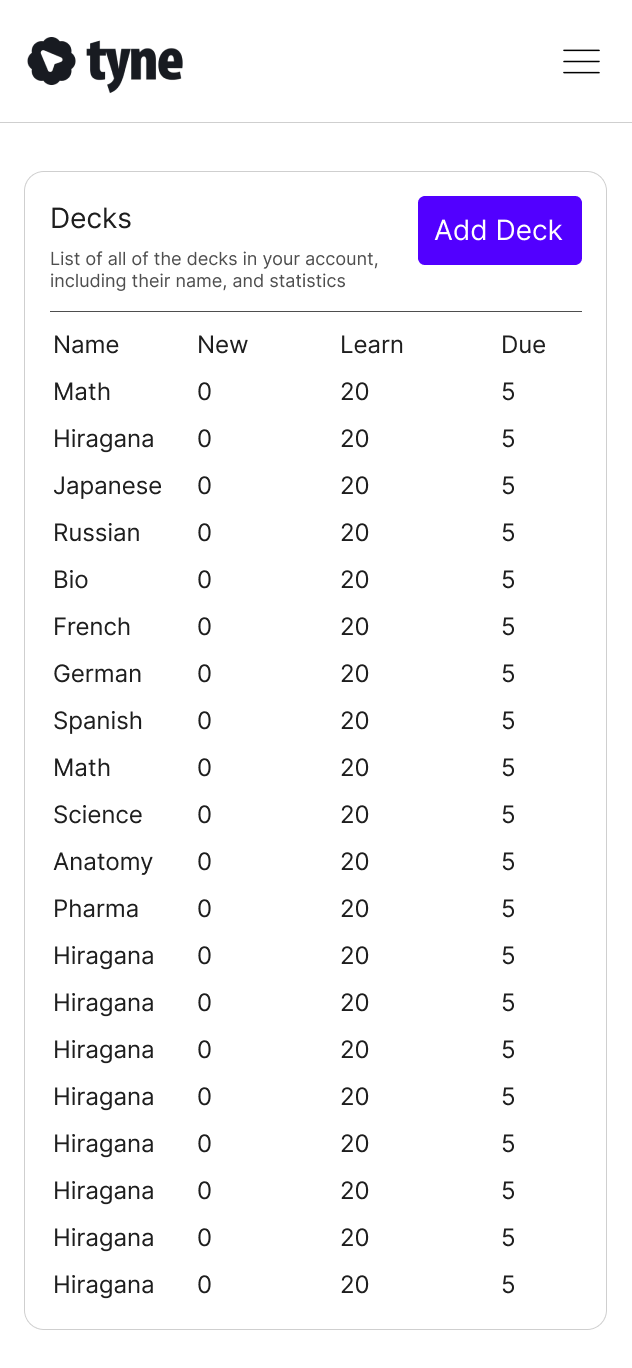
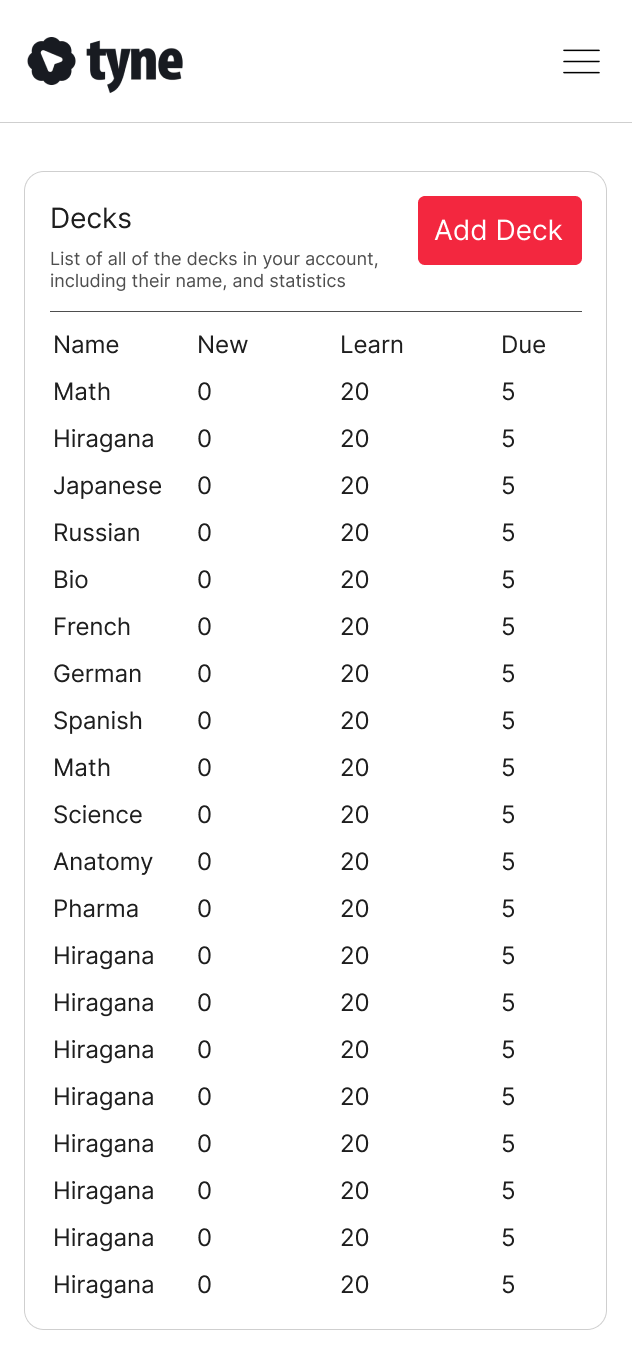
FEAT: new colors

Changed region(s): [[0.6614, 0.1228, 0.932, 0.2149]]

diff --git a/src/routes/register/+page.svelte b/src/routes/register/+page.svelte
@@ -24,7 +24,7 @@
 							type="email"
 							autocomplete="email"
 							required
-							class="block w-full rounded-md border-0 py-1.5 text-gray-900 shadow-sm ring-1 ring-inset ring-gray-300 placeholder:text-gray-400 focus:ring-2 focus:ring-inset focus:ring-indigo-600 sm:text-sm sm:leading-6"
+							class="block w-full rounded-md border-0 py-1.5 text-gray-900 shadow-sm ring-1 ring-inset ring-gray-300 placeholder:text-gray-400 focus:ring-2 focus:ring-inset focus:ring-rose-600 sm:text-sm sm:leading-6"
 						/>
 					</div>
 				</div>
@@ -40,7 +40,7 @@
 							type="password"
 							autocomplete="current-password"
 							required
-							class="block w-full rounded-md border-0 py-1.5 text-gray-900 shadow-sm ring-1 ring-inset ring-gray-300 placeholder:text-gray-400 focus:ring-2 focus:ring-inset focus:ring-indigo-600 sm:text-sm sm:leading-6"
+							class="block w-full rounded-md border-0 py-1.5 text-gray-900 shadow-sm ring-1 ring-inset ring-gray-300 placeholder:text-gray-400 focus:ring-2 focus:ring-inset focus:ring-rose-600 sm:text-sm sm:leading-6"
 						/>
 					</div>
 				</div>
@@ -51,7 +51,7 @@
 							id="remember-me"
 							name="remember-me"
 							type="checkbox"
-							class="h-4 w-4 rounded border-gray-300 text-indigo-600 focus:ring-indigo-600"
+							class="h-4 w-4 rounded border-gray-300 text-rose-600 focus:ring-rose-600"
 						/>
 						<label for="remember-me" class="ml-3 block text-sm leading-6 text-gray-900"
 							>Remember me</label
@@ -59,9 +59,8 @@
 					</div>
 
 					<div class="text-sm leading-6">
-						<a
-							href="/forgotten-password"
-							class="font-semibold text-indigo-600 hover:text-indigo-600">Forgot password?</a
+						<a href="/forgotten-password" class="font-semibold text-rose-600 hover:text-rose-600"
+							>Forgot password?</a
 						>
 					</div>
 				</div>
@@ -69,7 +68,7 @@
 				<div>
 					<button
 						type="submit"
-						class="flex w-full justify-center rounded-md bg-indigo-600 px-3 py-1.5 text-sm font-semibold leading-6 text-white shadow-sm hover:bg-indigo-600 focus-visible:outline focus-visible:outline-2 focus-visible:outline-offset-2 focus-visible:outline-indigo-600"
+						class="flex w-full justify-center rounded-md bg-rose-600 px-3 py-1.5 text-sm font-semibold leading-6 text-white shadow-sm hover:bg-rose-600 focus-visible:outline focus-visible:outline-2 focus-visible:outline-offset-2 focus-visible:outline-rose-600"
 						>Register</button
 					>
 				</div>
@@ -282,7 +281,7 @@
 
 		<p class="mt-10 text-center text-sm text-gray-500">
 			Not a member?
-			<a href="/waitlist" class="font-semibold leading-6 text-indigo-600 hover:text-indigo-600"
+			<a href="/waitlist" class="font-semibold leading-6 text-rose-600 hover:text-rose-600"
 				>Sign up!</a
 			>
 		</p>

diff --git a/src/routes/login/+page.svelte b/src/routes/login/+page.svelte
@@ -28,7 +28,7 @@
 							type="email"
 							autocomplete="email"
 							required
-							class="block w-full rounded-md border-0 py-1.5 text-gray-900 shadow-sm ring-1 ring-inset ring-gray-300 placeholder:text-gray-400 focus:ring-2 focus:ring-inset focus:ring-indigo-600 sm:text-sm sm:leading-6"
+							class="block w-full rounded-md border-0 py-1.5 text-gray-900 shadow-sm ring-1 ring-inset ring-gray-300 placeholder:text-gray-400 focus:ring-2 focus:ring-inset focus:ring-rose-600 sm:text-sm sm:leading-6"
 						/>
 					</div>
 				</div>
@@ -44,7 +44,7 @@
 							type="password"
 							autocomplete="current-password"
 							required
-							class="block w-full rounded-md border-0 py-1.5 text-gray-900 shadow-sm ring-1 ring-inset ring-gray-300 placeholder:text-gray-400 focus:ring-2 focus:ring-inset focus:ring-indigo-600 sm:text-sm sm:leading-6"
+							class="block w-full rounded-md border-0 py-1.5 text-gray-900 shadow-sm ring-1 ring-inset ring-gray-300 placeholder:text-gray-400 focus:ring-2 focus:ring-inset focus:ring-rose-600 sm:text-sm sm:leading-6"
 						/>
 					</div>
 				</div>
@@ -55,7 +55,7 @@
 							id="remember-me"
 							name="remember-me"
 							type="checkbox"
-							class="h-4 w-4 rounded border-gray-300 text-indigo-600 focus:ring-indigo-600"
+							class="h-4 w-4 rounded border-gray-300 text-rose-600 focus:ring-rose-600"
 						/>
 						<label for="remember-me" class="ml-3 block text-sm leading-6 text-gray-900"
 							>Remember me</label
@@ -63,9 +63,8 @@
 					</div>
 
 					<div class="text-sm leading-6">
-						<a
-							href="/forgotten-password"
-							class="font-semibold text-indigo-600 hover:text-indigo-600">Forgot password?</a
+						<a href="/forgotten-password" class="font-semibold text-rose-600 hover:text-rose-600"
+							>Forgot password?</a
 						>
 					</div>
 				</div>
@@ -73,7 +72,7 @@
 				<div>
 					<button
 						type="submit"
-						class="flex w-full justify-center rounded-md bg-indigo-600 px-3 py-1.5 text-sm font-semibold leading-6 text-white shadow-sm hover:bg-indigo-600 focus-visible:outline focus-visible:outline-2 focus-visible:outline-offset-2 focus-visible:outline-indigo-600"
+						class="flex w-full justify-center rounded-md bg-rose-600 px-3 py-1.5 text-sm font-semibold leading-6 text-white shadow-sm hover:bg-rose-600 focus-visible:outline focus-visible:outline-2 focus-visible:outline-offset-2 focus-visible:outline-rose-600"
 						>Sign in</button
 					>
 				</div>
@@ -286,7 +285,7 @@
 
 		<p class="mt-10 text-center text-sm text-gray-500">
 			Not a member?
-			<a href="/waitlist" class="font-semibold leading-6 text-indigo-600 hover:text-indigo-600"
+			<a href="/waitlist" class="font-semibold leading-6 text-rose-600 hover:text-rose-600"
 				>Sign up!</a
 			>
 		</p>

diff --git a/src/routes/decks/+layout.svelte b/src/routes/decks/+layout.svelte
@@ -67,7 +67,7 @@
 					<!-- Mobile menu button -->
 					<button
 						type="button"
-						class="relative -mx-2 inline-flex items-center justify-center rounded-md p-2 text-gray-400 hover:bg-gray-100 hover:text-gray-500 focus:outline-none focus:ring-2 focus:ring-inset focus:ring-indigo-500"
+						class="relative -mx-2 inline-flex items-center justify-center rounded-md p-2 text-gray-400 hover:bg-gray-100 hover:text-gray-500 focus:outline-none focus:ring-2 focus:ring-inset focus:ring-rose-500"
 						aria-expanded="false"
 					>
 						<span class="absolute -inset-0.5" />
@@ -111,7 +111,7 @@
 				<div class="hidden lg:flex lg:items-center lg:justify-end xl:col-span-4">
 					<button
 						type="button"
-						class="relative ml-5 flex-shrink-0 rounded-full bg-white p-1 text-gray-400 hover:text-gray-500 focus:outline-none focus:ring-2 focus:ring-indigo-500 focus:ring-offset-2"
+						class="relative ml-5 flex-shrink-0 rounded-full bg-white p-1 text-gray-400 hover:text-gray-500 focus:outline-none focus:ring-2 focus:ring-rose-500 focus:ring-offset-2"
 					>
 						<span class="absolute -inset-1.5" />
 						<span class="sr-only">View notifications</span>
@@ -136,7 +136,7 @@
 						<div>
 							<button
 								type="button"
-								class="relative flex rounded-full bg-white focus:outline-none focus:ring-2 focus:ring-indigo-500 focus:ring-offset-2"
+								class="relative flex rounded-full bg-white focus:outline-none focus:ring-2 focus:ring-rose-500 focus:ring-offset-2"
 								id="user-menu-button"
 								aria-expanded="false"
 								aria-haspopup="true"
@@ -191,7 +191,7 @@
 
 					<a
 						href="#"
-						class="ml-6 inline-flex items-center rounded-md bg-indigo-600 px-3 py-2 text-sm font-semibold text-white shadow-sm hover:bg-indigo-500 focus-visible:outline focus-visible:outline-2 focus-visible:outline-offset-2 focus-visible:outline-indigo-600"
+						class="ml-6 inline-flex items-center rounded-md bg-rose-600 px-3 py-2 text-sm font-semibold text-white shadow-sm hover:bg-rose-500 focus-visible:outline focus-visible:outline-2 focus-visible:outline-offset-2 focus-visible:outline-rose-600"
 						>Import File</a
 					>
 				</div>
@@ -233,7 +233,7 @@
 					</div>
 					<button
 						type="button"
-						class="relative ml-auto flex-shrink-0 rounded-full bg-white p-1 text-gray-400 hover:text-gray-500 focus:outline-none focus:ring-2 focus:ring-indigo-500 focus:ring-offset-2"
+						class="relative ml-auto flex-shrink-0 rounded-full bg-white p-1 text-gray-400 hover:text-gray-500 focus:outline-none focus:ring-2 focus:ring-rose-500 focus:ring-offset-2"
 					>
 						<span class="absolute -inset-1.5" />
 						<span class="sr-only">View notifications</span>

diff --git a/src/routes/+page.svelte b/src/routes/+page.svelte
@@ -45,9 +45,9 @@
 		<div class="mx-auto max-w-2xl lg:mx-0 lg:flex-auto">
 			<div class="flex">
 				<div
-					class="relative flex items-center gap-x-4 rounded-full px-4 py-1 text-sm leading-6 text-gray-600 ring-1 ring-gray-900/10 hover:ring-gray-900/20"
+					class="relative flex items-center gap-x-4 rounded-lg px-4 py-1 text-sm leading-6 text-gray-600 ring-1 ring-gray-900/10 hover:ring-gray-900/20"
 				>
-					<span class="font-semibold text-indigo-600">Tyne is hiring</span>
+					<span class="font-semibold text-rose-600">Tyne is hiring</span>
 					<span class="h-4 w-px bg-gray-900/10" aria-hidden="true" />
 					<a href="#" class="flex items-center gap-x-1">
 						<span class="absolute inset-0" aria-hidden="true" />
@@ -71,14 +71,14 @@
 				Flashcards made simple.
 			</h1>
 			<p class="mt-6 text-lg leading-8 text-gray-600">
-				Esse id magna consectetur fugiat non dolor in ad laboris magna laborum ea consequat. Nisi
-				irure aliquip nisi adipisicing veniam voluptate id. In veniam incididunt ex veniam
-				adipisicing sit.
+				Master topics faster than ever with our intuitive study tools. Dive into a world where
+				learning is dynamic, engaging, and tailored to you. Say goodbye to the traditional grind and
+				embrace the future of education. Revolutionize the way you study and achieve more in less.
 			</p>
 			<div class="mt-10 flex items-center gap-x-6">
 				<a
 					href="/login"
-					class="rounded-md bg-indigo-600 px-3.5 py-2.5 text-sm font-semibold text-white shadow-sm hover:bg-indigo-500 focus-visible:outline focus-visible:outline-2 focus-visible:outline-offset-2 focus-visible:outline-indigo-600"
+					class="rounded-md bg-rose-600 px-3.5 py-2.5 text-sm font-semibold text-white shadow-sm hover:bg-rose-500 focus-visible:outline focus-visible:outline-2 focus-visible:outline-offset-2 focus-visible:outline-rose-600"
 					>Get started</a
 				>
 				<a href="/login" class="text-sm font-semibold leading-6 text-gray-900"

diff --git a/src/routes/decks/+page.svelte b/src/routes/decks/+page.svelte
@@ -21,7 +21,7 @@
 				<div class="mt-4 sm:ml-16 sm:mt-0 sm:flex-none">
 					<button
 						type="button"
-						class="block rounded-md bg-indigo-600 px-3 py-2 text-center text-sm font-semibold text-white shadow-sm hover:bg-indigo-500 focus-visible:outline focus-visible:outline-2 focus-visible:outline-offset-2 focus-visible:outline-indigo-600"
+						class="block rounded-md bg-rose-600 px-3 py-2 text-center text-sm font-semibold text-white shadow-sm hover:bg-rose-500 focus-visible:outline focus-visible:outline-2 focus-visible:outline-offset-2 focus-visible:outline-rose-600"
 						>Add Deck</button
 					>
 				</div>
@@ -58,12 +58,12 @@
 										>Hiragana 12</td
 									>
 									<td class="whitespace-nowrap px-3 py-4 text-sm text-gray-500">0</td>
-									<td class="whitespace-nowrap px-3 py-4 text-sm text-indigo-500">20</td>
+									<td class="whitespace-nowrap px-3 py-4 text-sm text-rose-500">20</td>
 									<td class="whitespace-nowrap px-3 py-4 text-sm text-red-500">5</td>
 									<td
 										class="relative whitespace-nowrap py-4 pl-3 pr-4 text-right text-sm font-medium sm:pr-0"
 									>
-										<a href="#" class="text-indigo-600 hover:text-indigo-900"
+										<a href="#" class="text-rose-600 hover:text-rose-900"
 											>Edit<span class="sr-only">, Lindsay Walton</span></a
 										>
 									</td>

diff --git a/src/lib/db.server.js b/src/lib/db.server.js
@@ -1,4 +1,4 @@
-import { Pool } from 'pg';
+import Pool from 'pg';
 
 export default function connectToDatabase() {
 	console.log('Connecting to database...');
